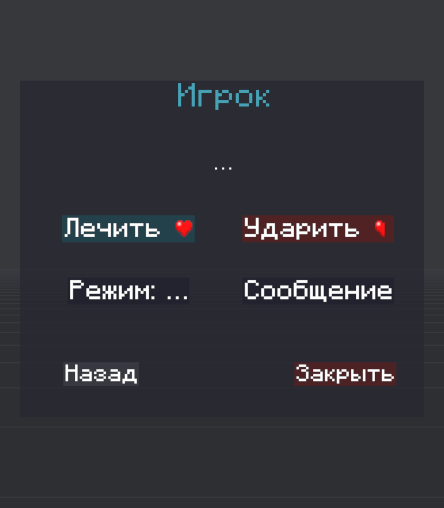
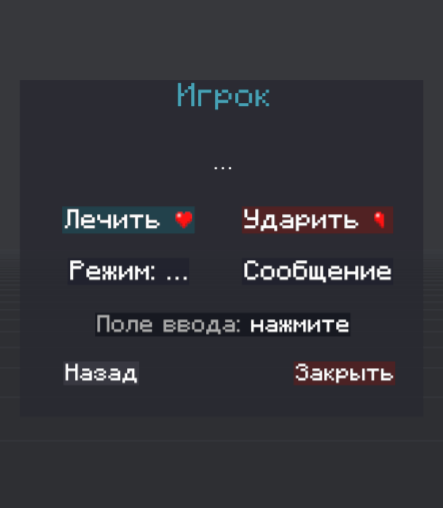
Docs and examples: chat input on the demo_player screen
- demo_player: "Поле ввода" button (player.input with a segment prompt, 30 s timeout,
  second click cancels); rows re-spaced to fit; new editor screenshot.
- Docs: examples page describes the field and links the "Ввод из чата" reference section;
  home page mentions chat input; changelog.

Claude-Session: https://claude.ai/code/session_01S5n42Der8v9u9qLpbyBbt2

diff --git a/CHANGELOG.md b/CHANGELOG.md
@@ -6,7 +6,7 @@
 ## Unreleased
 
 ### Плагин
-- Ввод из чата для скриптов экранов: `player.input([prompt, [timeoutTicks,]] text -> ...)`, `player.cancelInput()`, `player.awaitingInput()` - следующее сообщение игрока перехватывается (не уходит в чат) и отдаётся функции скрипта. Одно ожидание на игрока, снимается при закрытии экрана, выходе игрока и по таймауту; функция - в главном потоке под сторожевым таймером. Работает и с `player` из обработчика клика публичного экрана.
+- Ввод из чата для скриптов экранов: `player.input([prompt, [timeoutTicks,]] text -> ...)`, `player.cancelInput()`, `player.awaitingInput()` - следующее сообщение игрока перехватывается (не уходит в чат) и отдаётся функции скрипта. Одно ожидание на игрока, снимается при закрытии экрана, выходе игрока и по таймауту; функция - в главном потоке под сторожевым таймером. Работает и с `player` из обработчика клика публичного экрана. Пример - «Поле ввода» на экране `demo_player`.
 - `player.message(сегменты)` из скрипта: таблицы скрипта больше не превращаются в пустое сообщение (сегменты разбираются как у `widget.text`).
 - Частицы без коллизий считаются в отдельном потоке «DisplayLib Particles» (`particles.async: true`, только вместе с пакетами): основной поток лишь создаёт частицы и выбирает зрителей, пакеты потока отправляет в начале следующего тика - кадры приходят клиенту ровно раз в тик. На замере 1000 частиц: работа частиц в основном потоке 1,57 → 0,53 мс за тик. Эффекты с коллизиями - как раньше в основном потоке.
 - Частицы показываются пакетами, без сущностей на сервере (`particles.packets: true` в `config.jmc`, по умолчанию): нет хранения в чанках, трекера, телепортов и удаления сущностей - на замере это ~70% стоимости частиц. Зрители - владелец или игроки не дальше `particles.viewDistance` (96) от точки запуска. На другой версии сервера - автоматически сущности, как раньше. Сборка: paperweight-userdev (dev bundle Paper 1.21.11), Gradle 9.7 (плагины сборки требуют 9.7+). Пакеты тика уходят одной связкой на игрока; пока рядом нет зрителей, новые частицы не появляются. Подбор кадров вида для линейного размера без смены цвета - за O(n) вместо O(n²).

diff --git a/docs/index.md b/docs/index.md
@@ -24,7 +24,7 @@ features:
     details: Виджеты, фон, morph-переходы и анимации наведения описываются конфигом Jumper; hot reload подхватывает правки без перезапуска.
   - icon: 🐸
     title: Скрипты .jmp
-    details: Обработчики кликов, хуки onOpen/onClose, таймеры, хранилище игрока, API игрока — под политикой доступа scripts.jma.
+    details: Обработчики кликов, хуки onOpen/onClose, таймеры, хранилище игрока, API игрока и ввод из чата — под политикой доступа scripts.jma.
   - icon: 🖥
     title: Редактор в браузере
     details: 3D-предпросмотр как в игре, умные направляющие, кадровые анимации, экспорт .jmc и .jmp одним нажатием.

diff --git a/docs/guide/examples.md b/docs/guide/examples.md
@@ -37,7 +37,9 @@
 
 ## `demo_player` - PlayerAPI
 
-Имя, UUID, режим игры, здоровье, сообщения, звуки и команды от имени игрока.
+Имя, UUID, режим игры, здоровье, сообщения, звуки и команды от имени игрока. «Поле ввода» - ввод из чата
+(`player.input`): клик, и следующее сообщение игрока в чат не уходит в чат, а появляется в поле; повторный клик
+отменяет ожидание, без ответа за 30 секунд поле возвращается к «нажмите». См. [Ввод из чата](/reference/script#ввод-из-чата).
 
 ![demo_player](/examples/demo_player.png)
 
